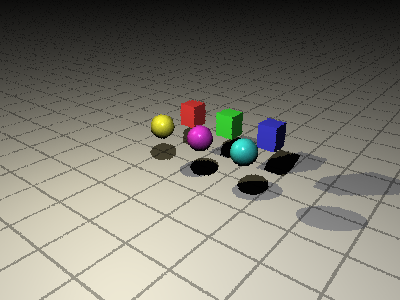
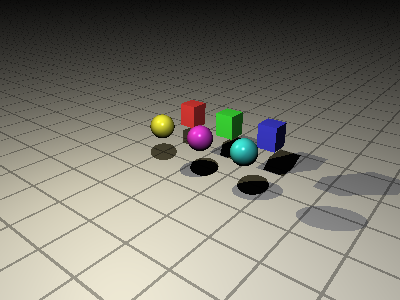
Add no-sampling and no-jitter comparison images to documentation

diff --git a/doc/README.md b/doc/README.md
@@ -492,6 +492,18 @@ The difference is most noticeable on edges and fine details. Here's the same sce
 - **1-sample jittering** reduces aliasing while maintaining fast render times
 - **4-sample jittering** provides smooth edges with minimal visual artifacts
 
+### Anti-Aliasing Comparison
+
+Here's a simpler comparison showing the fundamental difference between deterministic and stochastic sampling:
+
+| No Sampling & No Jitter | Stochastic Anti-Aliasing |
+|:------------------------:|:------------------------:|
+| ![No Sampling](images/sampling-antialiasing-nosamples.png) | ![Anti-Aliasing](images/sampling-antialiasing.png) |
+
+This comparison clearly shows:
+- **Left (--samples 1 --no-jitter)**: Completely deterministic rendering with visible aliasing on object edges
+- **Right (--samples 4)**: Stochastic anti-aliasing produces smooth, high-quality edges
+
 ---
 
 ## Examples
